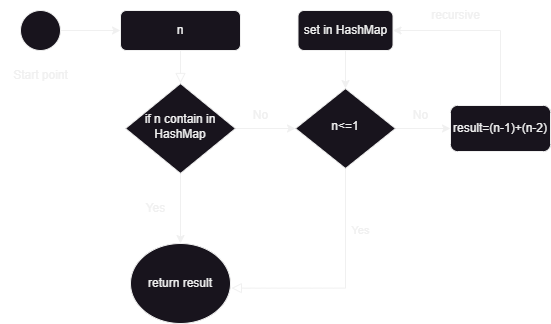
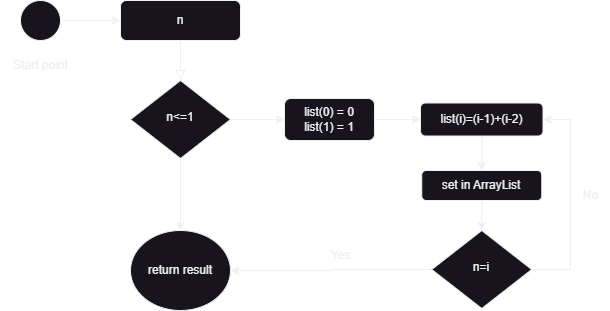
Refact home work

diff --git a/src/main/java/org/example/DynamicFibonacci.java b/src/main/java/org/example/DynamicFibonacci.java
@@ -1,20 +1,19 @@
 package org.example;
 
-import java.util.HashMap;
-import java.util.Map;
+import java.util.ArrayList;
 
 class DynamicFibonacci implements FibonacciCalculate{
     @Override
     public long calculate(int n){
-        Map<Integer,Long> arrayMap = new HashMap<>();
+        ArrayList<Long> arrayList = new ArrayList<>();
         if(n<=1){
             return n;
         }
-        if(arrayMap.containsKey(n)){
-            return arrayMap.get(n);
+        arrayList.add(0L);
+        arrayList.add(1L);
+        for(int i = 2; i<=n; i++){
+            arrayList.add(arrayList.get(i-1)+arrayList.get(i-2));
         }
-        long result = calculate(n-1)+calculate(n-2);
-        arrayMap.put(n, result);
-        return result;
+        return arrayList.get(n);
     }
 }

diff --git a/src/main/java/org/example/IterationFibonacci.java b/src/main/java/org/example/IterationFibonacci.java
@@ -1,22 +1,17 @@
 package org.example;
 
-import java.util.ArrayList;
-
 public class IterationFibonacci implements FibonacciCalculate{
     @Override
     public long calculate(int n){
-        ArrayList<Long> arrayList = new ArrayList<>();
         if(n<=1){
             return n;
         }
-        long result = 2L;
-        arrayList.add(0L);
-        arrayList.add(1L);
-        for(int i = 2; i<=n; i++){
-            arrayList.add(arrayList.get(i-1)+arrayList.get(i-2));
-            result = arrayList.get(i);
-
+        long a = 0, b = 1, c;
+        for (int i = 2; i <= n; i++) {
+            c = a + b;
+            a = b;
+            b = c;
         }
-        return result;
+        return b;
     }
 }
